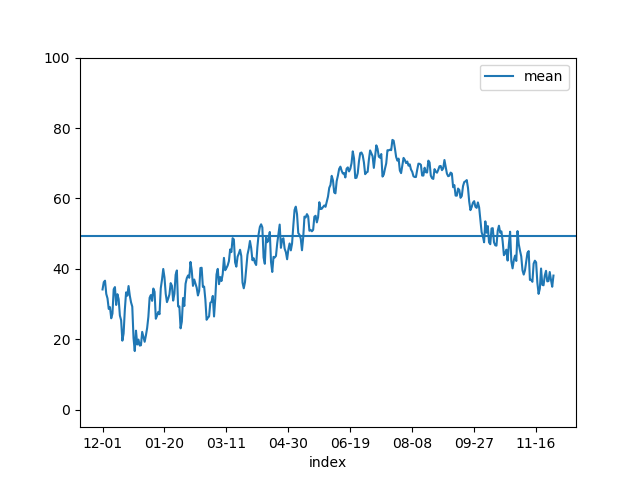
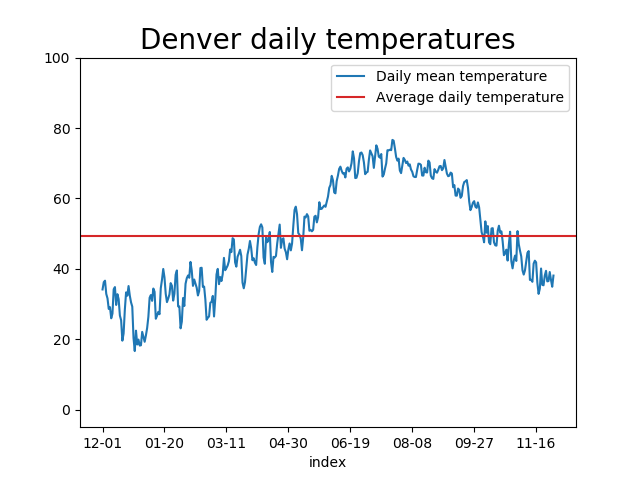
nice graphs

Changed region(s): [[0.2188, 0.0625, 0.9062, 0.2188], [0.125, 0.4688, 0.9062, 0.5], [0.5312, 0.1562, 0.5625, 0.2188]]

diff --git a/src/weather.py b/src/weather.py
@@ -45,14 +45,17 @@ def mean_town(df_temps_year,city,plot=False):
     agg_temp = pd.concat(means ,axis =1)
     agg_temp = agg_temp[:-1]
     
-    agg_temp['mean'] = agg_temp.mean(axis=1)
-    agg_temp.reset_index().plot(x='index',y ='mean')
+    agg_temp['Daily mean temperature'] = agg_temp.mean(axis=1)
+    agg_temp.reset_index().plot(x='index',y ='Daily mean temperature')
 
-    temp_var = agg_temp['mean'].var()
+    temp_var = agg_temp['Daily mean temperature'].var()
     if plot:
-        plt.axhline(y=agg_temp['mean'].mean())
+        
+        plt.title(("{} daily temperatures").format(city), fontsize=20)
+        plt.axhline(y=agg_temp['Daily mean temperature'].mean(),color = "tab:red",label = 'Average daily temperature')
         plt.ylim(-5,100)
         file = 'img/{}_avg'.format(city)
+        plt.legend()
         plt.savefig(file)
         plt.show()
     return temp_var
@@ -106,8 +109,8 @@ if __name__ == "__main__":
     #df_description_2012 = split_by_date(df_description,date_start,date_end)
 
     #filter by city
-    # den_var = mean_town(df_temps_year,'Denver',True)
-    # sd_var =mean_town(df_temps_year, "San Diego",True)
+    den_var = mean_town(df_temps_year,'Denver',True)
+    sd_var =mean_town(df_temps_year, "San Diego",True)
     
     #calc var for every city
     # cities =df_temp.columns[1:]
@@ -167,7 +170,7 @@ if __name__ == "__main__":
     ax[1].plot(df_temp_2012_sd['datetime'],df_temp_2012_sd['San Diego'],color = "tab:red")
     plt.ylim(-5,100)
     plt.savefig('img/city_temp_hourly_2013')
-    plt.show()
+    #plt.show()
     
  
     #calc and plot
@@ -189,7 +192,7 @@ if __name__ == "__main__":
     plt.legend()
     plt.ylim(-5,100) 
     plt.savefig('img/den_temp_avg-min-max_2013')
-    plt.show()
+    #plt.show()
 
 
     plt.figure(figsize = (13,10))
@@ -205,7 +208,7 @@ if __name__ == "__main__":
     plt.legend()
     plt.ylim(-5,100)
     plt.savefig('img/sd_temp_avg-min-max_2013')
-    plt.show()
+    #plt.show()
 
     
     
@@ -250,10 +253,11 @@ if __name__ == "__main__":
     df_fall_temp_max = df_temp_2012.groupby([df_fall_temp['datetime'].dt.date])['Denver'].max()
     df_fall_temp_min = df_temp_2012.groupby([df_fall_temp['datetime'].dt.date])['Denver'].min()
    
-    fig, axes =plt.subplots(2,2,figsize = (12,10))
-    axes[0,0].plot(df_winter_temp_mean)
-    axes[0,0].plot(df_winter_temp_max)
-    axes[0,0].plot(df_winter_temp_min)
+    
+    fig, axes =plt.subplots(2,2,figsize = (14,20))
+    axes[0,0].plot(df_winter_temp_mean,label="daily mean temperature")
+    axes[0,0].plot(df_winter_temp_max,label="daily max temperature")
+    axes[0,0].plot(df_winter_temp_min,label="daily min temperature")
     axes[0,0].set_title('Winter')
     axes[0,1].plot(df_spring_temp_mean) 
     axes[0,1].plot(df_spring_temp_max) 
@@ -269,8 +273,12 @@ if __name__ == "__main__":
     axes[1,1].set_title('Fall')
     for ax in axes.flatten():
          ax.set_ylim(-5,100)
+    fig.suptitle("Denver daily temperatures by season", fontsize=20)
+    fig.autofmt_xdate()
+    fig.legend()
     plt.savefig('img/den_seas_temp_avg-min-max_2013')
-    plt.show()
+    
+    #plt.show()
 
 
 
@@ -291,10 +299,11 @@ if __name__ == "__main__":
     df_fall_temp_max_sd = df_temp_2012_sd.groupby([df_fall_temp_sd['datetime'].dt.date])['San Diego'].max()
     df_fall_temp_min_sd = df_temp_2012_sd.groupby([df_fall_temp_sd['datetime'].dt.date])['San Diego'].min()
    
-    fig, axes =plt.subplots(2,2,figsize = (12,10))
-    axes[0,0].plot(df_winter_temp_mean_sd)
-    axes[0,0].plot(df_winter_temp_max_sd)
-    axes[0,0].plot(df_winter_temp_min_sd)
+   
+    fig, axes =plt.subplots(2,2,figsize = (14,20))
+    axes[0,0].plot(df_winter_temp_mean_sd,label="daily mean temperature")
+    axes[0,0].plot(df_winter_temp_max_sd,label="daily max temperature")
+    axes[0,0].plot(df_winter_temp_min_sd,label="daily min temperature")
     axes[0,0].set_title('Winter')
     axes[0,1].plot(df_spring_temp_mean_sd) 
     axes[0,1].plot(df_spring_temp_max_sd) 
@@ -310,8 +319,12 @@ if __name__ == "__main__":
     axes[1,1].set_title('Fall')
     for ax in axes.flatten():
          ax.set_ylim(-5,100)
+    fig.suptitle("San Diego daily temperatures by season", fontsize=20)   
+   
+    fig.autofmt_xdate()
+    fig.legend()
     plt.savefig('img/sd_seas_temp_avg-min-max_2013')     
-    plt.show()
+    #plt.show()
 
    
     
